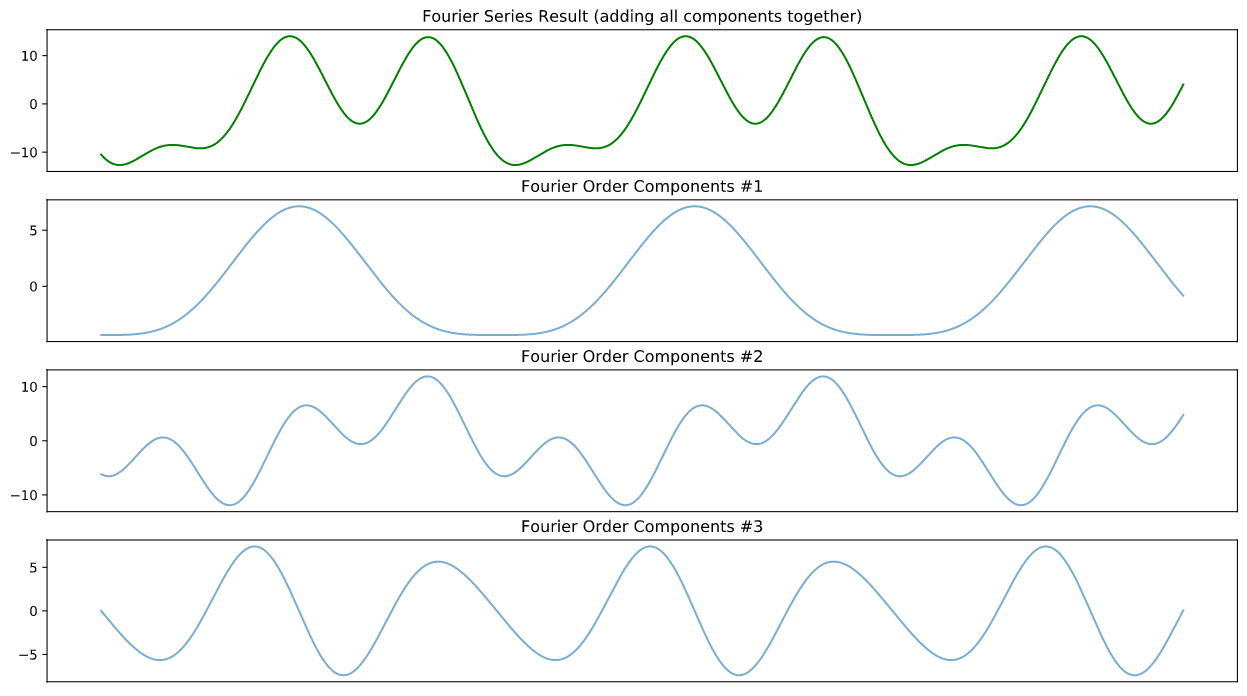
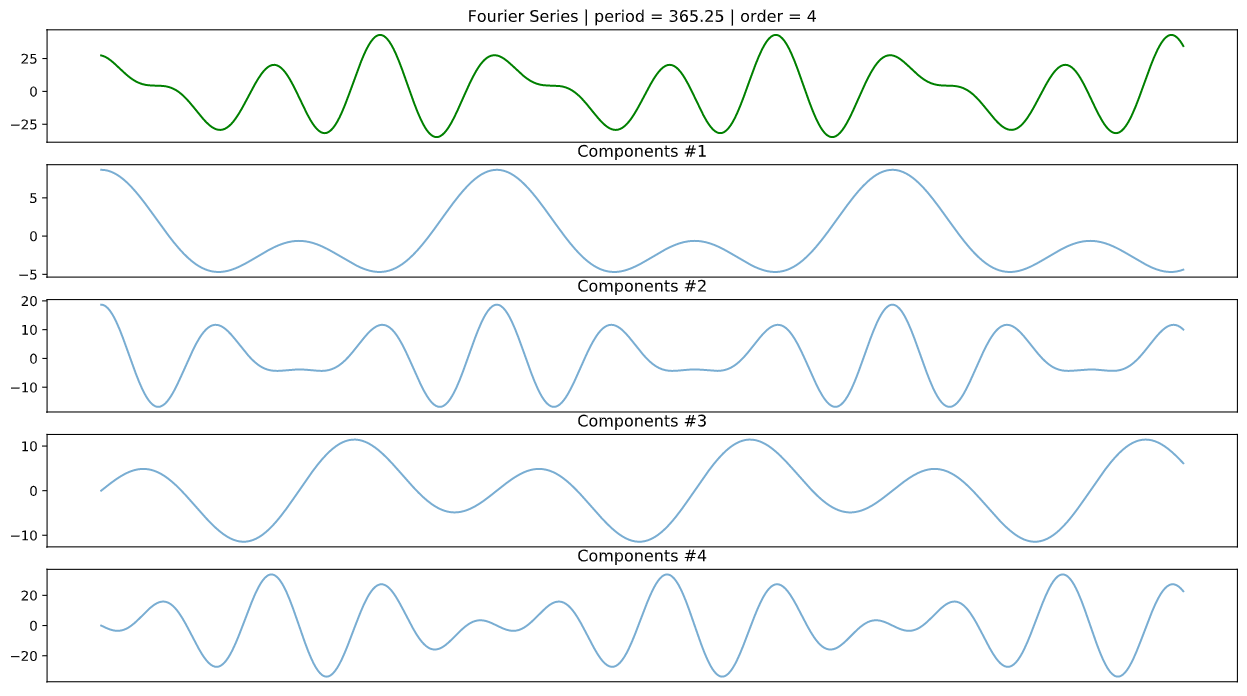
glm updates

diff --git a/_posts/2020-09-18-fbprophet_bayesian_glm.md b/_posts/2020-09-18-fbprophet_bayesian_glm.md
@@ -329,22 +329,22 @@ $$X(t) \boldsymbol{\beta} = \sum_{n=1}^{N}(a_{n} cos(\frac{2\pi nt}{\lambda}) + 
 
 ### Demonstrating Seasonality as Fourier Series
 
-We first prepare a function that takes in $$\boldsymbol{t}$, and specified **period & n** as arguments to calculate the fourier series:
+We first prepare a function that takes in $$\boldsymbol{t}$$, along with the fourier properties **$$\lambda$$ (period) & $$N$$ (order)** as arguments to calculate the fourier series:
 
 ```python
-def fourier_series(t, period, n):
+def fourier_series(t, period, order):
     # 2 pi n / p
-    x = 2 * np.pi * np.arange(1, n + 1) / period
+    x = 2 * np.pi * np.arange(1, order + 1) / period
     # 2 pi n / p * t
     x = x * t[:, None]
     x = np.concatenate((np.cos(x), np.sin(x)), axis=1)
     return x
 ```
-Below for demonstrative purposes only, we set $$N=3$$ and $$\lambda=365.25$$ for our fourier series $$X(t)$$. Then uses the default $$\phi = 10$$ to generate our multi-dimensional prior $$\beta$$. We then perform calculations on each components separately as well as them added together to construct the fourier series result:
+Below for demonstrative purposes only, we set $$N=4$$ and $$\lambda=365.25$$ for our fourier series $$X(t)$$. Then uses the default $$\phi = 10$$ to generate our multi-dimensional prior $$\beta$$. We then perform calculations on each components separately as well as them added together to construct the fourier series result:
 
 ```python
 t = np.arange(1000) #--| scaled timestep
-order = 3 #---| fourier order
+order = 4 #---| fourier order
 period = 365.25 #---| fourier period
 phi = 10 #---| beta's prior scale
 
@@ -356,7 +356,7 @@ beta = np.random.normal(0,phi,size=2 * order)
 plt.figure(figsize=(16, 9))
 n = ((order+1)*100) + 11
 plt.subplot(n)
-plt.title("Fourier Series Result (adding all components together)")
+plt.title("Fourier Series | period = " + str(period) + " | order = " + str(order))
 plt.xticks([])
 plt.plot(t,np.dot(X,beta), lw=1.5, color="green")
 
@@ -365,7 +365,7 @@ for o in range(order):
     i +=1
     idx = o*2
     plt.subplot(n + i)
-    plt.title("Fourier Order Components #%s" %str(o + 1))
+    plt.title("Components #%s" %str(o + 1))
     plt.xticks([])
     plt.plot(t,np.dot(X[:,idx:(idx+2)],beta[idx:(idx+2)]),alpha=0.6)
 ```
